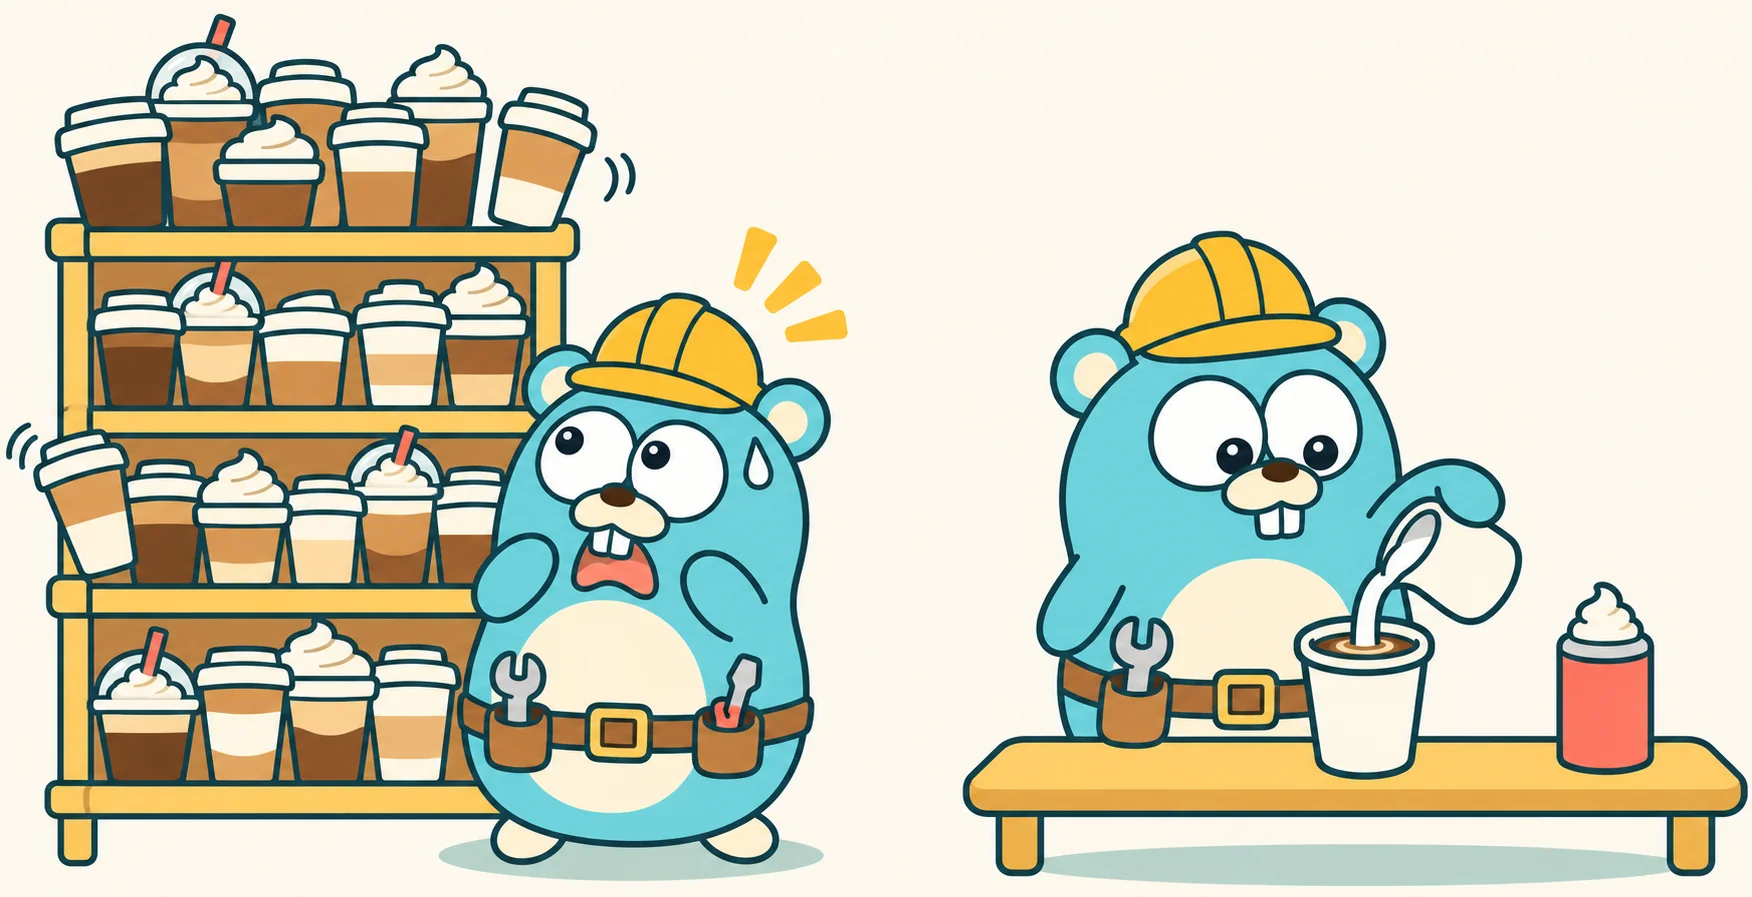
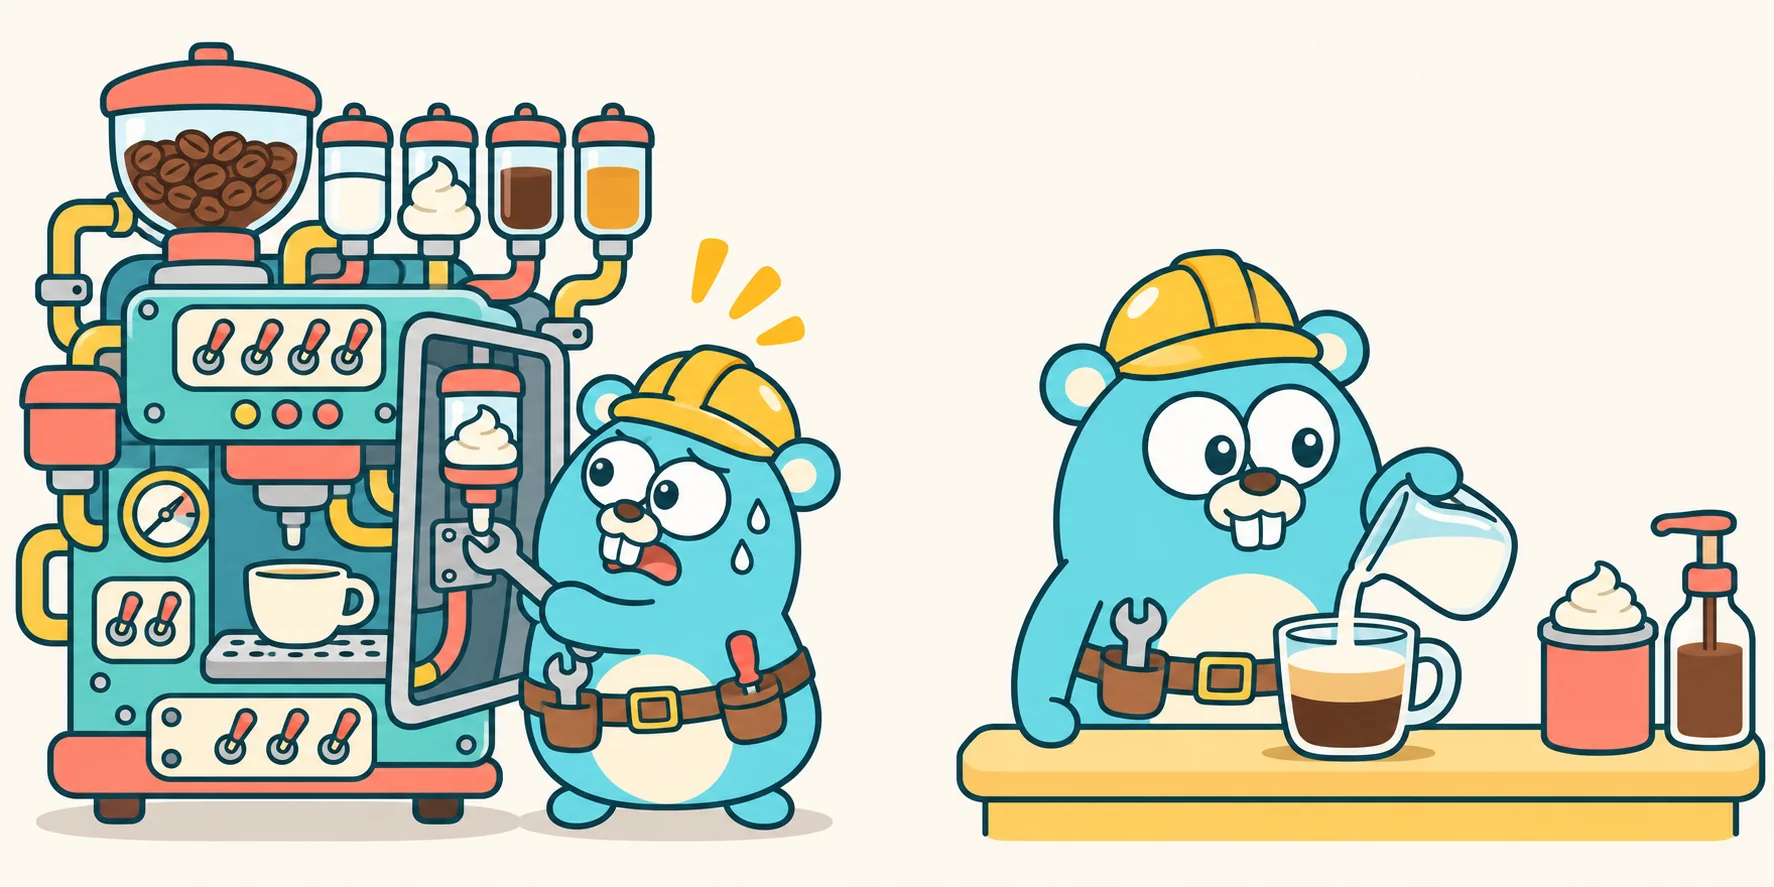
docs: 桥接、装饰器等章节改用更真实的反例，补充「Go 里就是…」的直白说明

diff --git a/codes/structural/bridge/bad.go b/codes/structural/bridge/bad.go
@@ -3,19 +3,31 @@ package bridge
 import "fmt"
 
 // --8<-- [start:bad]
-// 反例：每种「消息 × 渠道」的组合写一个类型。
-type normalSMS struct{}
-type normalEmail struct{}
-type urgentSMS struct{}
-type urgentEmail struct{}
+// 反例：渠道是个字符串，每种消息里都 switch 一遍「怎么发」。
+type badNormal struct{ channel string }
 
-func (normalSMS) Notify(msg string)   { fmt.Println("短信：" + msg) }
-func (normalEmail) Notify(msg string) { fmt.Println("邮件：" + msg) }
-func (urgentSMS) Notify(msg string)   { fmt.Println("短信：" + urgentText(msg)) }
-func (urgentEmail) Notify(msg string) { fmt.Println("邮件：" + urgentText(msg)) }
+func (n badNormal) Notify(msg string) {
+	switch n.channel {
+	case "sms":
+		fmt.Println("短信：" + msg)
+	case "email":
+		fmt.Println("邮件：" + msg)
+	}
+}
 
-// 加一个「微信」渠道：再写 normalWechat、urgentWechat；
-// 加一种「定时」消息：每个渠道再各写一个。M 种消息 × N 种渠道 = M×N 个类型。
+type badUrgent struct{ channel string }
+
+func (u badUrgent) Notify(msg string) {
+	text := urgentText(msg)
+	switch u.channel { // 和上面一模一样的 switch，又抄了一遍
+	case "sms":
+		fmt.Println("短信：" + text)
+	case "email":
+		fmt.Println("邮件：" + text)
+	}
+}
+
+// 加一个「微信」渠道：每种消息的 switch 都要加 case，漏改一处就发不出去。
 // --8<-- [end:bad]
 
 func urgentText(msg string) string { return "【紧急】" + msg + "，请立即处理" }

diff --git a/codes/structural/decorator/bad.go b/codes/structural/decorator/bad.go
@@ -1,22 +1,31 @@
 package decorator
 
 // --8<-- [start:bad]
-// 反例：用「组合出一个新类型」的方式扩展功能。
-// 2 种配料就要 3 个新类型，n 种配料最多要 2ⁿ-1 个，这就是「类爆炸」。
+// 反例：所有配料都做成订单上的开关，每个方法里挨个 if。
+type Order struct{ Milk, Cream bool }
 
-// CoffeeWithMilk 是加牛奶的美式。
-type CoffeeWithMilk struct{}
+func (o Order) Cost() int {
+	cost := 15
+	if o.Milk {
+		cost += 3
+	}
+	if o.Cream {
+		cost += 5
+	}
+	return cost
+}
 
-func (CoffeeWithMilk) Cost() int { return 15 + 3 }
+func (o Order) Description() string {
+	desc := "美式"
+	if o.Milk { // 和 Cost 里一样的 if，又写了一遍
+		desc += " + 牛奶"
+	}
+	if o.Cream {
+		desc += " + 奶油"
+	}
+	return desc
+}
 
-// CoffeeWithCream 是加奶油的美式。
-type CoffeeWithCream struct{}
-
-func (CoffeeWithCream) Cost() int { return 15 + 5 }
-
-// CoffeeWithMilkAndCream 是加牛奶和奶油的美式。
-type CoffeeWithMilkAndCream struct{}
-
-func (CoffeeWithMilkAndCream) Cost() int { return 15 + 3 + 5 }
-
+// 加一种「糖浆」：Order 加字段，Cost、Description 各加一个 if；
+// 想要「双份牛奶」：bool 表达不了，得改成计数。
 // --8<-- [end:bad]

diff --git a/codes/behavioral/visitor/bad.go b/codes/behavioral/visitor/bad.go
@@ -4,7 +4,7 @@ import "fmt"
 
 // --8<-- [start:bad]
 // 反例：每加一种展品，都要找到并更新各项操作里的类型分支。
-func badLabels(exhibits []any) []string {
+func badLabels(exhibits []Exhibit) []string {
 	var labels []string
 	for _, e := range exhibits {
 		switch x := e.(type) {
@@ -17,7 +17,7 @@ func badLabels(exhibits []any) []string {
 	return labels
 }
 
-func badPacking(exhibits []any) (flatBoxes, crates int) {
+func badPacking(exhibits []Exhibit) (flatBoxes, crates int) {
 	for _, e := range exhibits {
 		switch e.(type) {
 		case Painting:

diff --git a/codes/structural/decorator/decorator_test.go b/codes/structural/decorator/decorator_test.go
@@ -30,8 +30,9 @@ func TestBeverage(t *testing.T) {
 
 // 反例与装饰器结果一致。
 func TestBadMatches(t *testing.T) {
-	if (CoffeeWithMilkAndCream{}).Cost() != (Cream{Milk{Coffee{}}}).Cost() {
-		t.Fatal("反例与装饰器价格不一致")
+	bad, good := Order{Milk: true, Cream: true}, Cream{Milk{Coffee{}}}
+	if bad.Cost() != good.Cost() || bad.Description() != good.Description() {
+		t.Fatal("反例与装饰器结果不一致")
 	}
 }
 

diff --git a/codes/structural/bridge/bridge_test.go b/codes/structural/bridge/bridge_test.go
@@ -5,9 +5,9 @@ import (
 	"os"
 )
 
-// 反例输出相同，只是每种组合都要单独写一个类型。
+// 反例输出相同，只是每种消息里都要 switch 一遍渠道。
 func Example_bad() {
-	for _, n := range []Notice{normalSMS{}, normalEmail{}, urgentSMS{}, urgentEmail{}} {
+	for _, n := range []Notice{badNormal{"sms"}, badNormal{"email"}, badUrgent{"sms"}, badUrgent{"email"}} {
 		n.Notify("磁盘快满了")
 	}
 	// Output:

diff --git a/codes/behavioral/templatemethod/bad.go b/codes/behavioral/templatemethod/bad.go
@@ -14,7 +14,7 @@ func exportCSV(rows []Record) string {
 	var b strings.Builder
 	b.WriteString("name,score\n")
 	for _, r := range rows {
-		b.WriteString((CSV{}).Row(r) + "\n")
+		b.WriteString((CSV{}).Row(r) + "\n") // CSV.Row 负责转义逗号和引号，见 15.2
 	}
 	return b.String()
 }

diff --git a/docs/structural/decorator/problem.md b/docs/structural/decorator/problem.md
@@ -1,28 +1,26 @@
 # 7.1 问题与思路
 
-## 每种组合一个类型
+## 所有配料都塞进一个类型
 
 咖啡店卖美式，可以加牛奶、加奶油，顾客想怎么配就怎么配。
 
-![左：货架上摆满各种预先组合好的咖啡，吉祥物手忙脚乱；右：只有一杯美式和两种配料，吉祥物从容加料](../../assets/images/decorator-problem.webp){ .illus }
+![左：一台咖啡机装满了开关和管子，吉祥物满头大汗地打开侧板，还要再装一个出料口；右：一杯普通美式和几罐独立的配料，吉祥物从容地往杯里倒牛奶](../../assets/images/decorator-problem.webp){ .illus }
 
-<p class="caption">把每种组合都做成成品，货架很快放不下；只备一杯基础咖啡和几种配料，现点现加</p>
+<p class="caption">每种配料都焊进机器里，加一种就得拆一次机器；配料单独放，现点现往杯里加</p>
 
-最直觉的写法是每种组合写一个类型，相当于把每种组合都做成成品：
+最直觉的写法：订单上给每种配料一个开关，每个方法里挨个 `if`：
 
 ```go
 --8<-- "codes/structural/decorator/bad.go:bad"
 ```
 
-配料每多一种，组合数就翻一倍：
-
-| 配料种数 | 需要的组合类型 |
+| 痛点 | 后果 |
 |---|---|
-| 2 | 3 |
-| 3 | 7 |
-| n | 2ⁿ − 1 |
+| 加一种配料 | 改 `Order` 的字段，`Cost`、`Description` 各加一个 `if`，漏一处结果就错 |
+| 加两份牛奶 | `bool` 表达不了，结构得改 |
+| 别的包想加配料 | 改不了 `Order`，只能等它的作者改 |
 
-这叫**类爆炸**。更麻烦的是，牛奶涨价要改所有带牛奶的类型。本例只列到 2 种配料；3 种就是 7 个类型，4 种是 15 个。只有两三种固定组合、以后也不增减时，直接写这些类型反而更简单。
+根本原因：**每种附加功能都写进了同一个类型里**。配料只是几个价格、以后也不加时，这样写完全没问题；附加的东西一多、或者每层是一段行为（日志、鉴权、计时），就该拆开。
 
 ## 一层层包装
 
@@ -31,7 +29,9 @@
 1. 咖啡和配料实现**同一个接口** `Beverage`。
 2. 配料内部持有一个 `Beverage`，计算时先问里面那层，再加上自己的部分。
 
-==包装后仍是同一个接口，所以可以一层套一层，组合随用随拼==。n 种配料只需要 n 个类型。
+==包装后仍是同一个接口，所以可以一层套一层，组合随用随拼==。加一种配料只写一个新类型，已有代码一行不改。
+
+Go 里装饰器就是**一个结构体持有同一个接口**，或者一个函数 `func(http.Handler) http.Handler`（[7.3](middleware.md)）。名字里的「装饰」只是说它在原物外面加一层。
 
 ```mermaid
 classDiagram

diff --git a/docs/structural/bridge/problem.md b/docs/structural/bridge/problem.md
@@ -1,14 +1,14 @@
 # 11.1 问题与思路
 
-## 两件事在变，类型成倍增长
+## 两件事写在一起，改一处动全身
 
 监控系统要发告警：消息分普通和紧急两种，渠道有短信和邮件两种，以后还会加微信、加定时消息。
 
 ![左：一个塞满的格子柜，每格是一封信绑在一种送信工具上，吉祥物满头大汗还在往里塞；右：一摞信和一排送信工具分开放，吉祥物从容地把一封信交给信鸽](../../assets/images/bridge-problem.webp){ .illus }
 
-<p class="caption">每种组合绑成一份，柜子越塞越满；信和送信工具分开放，随取随配</p>
+<p class="caption">信和送信工具绑在一起，每加一样都要全部重来；分开放，随取随配</p>
 
-最直觉的写法：每种「消息 × 渠道」写一个类型：
+最直觉的写法：渠道用一个字符串表示，每种消息里 `switch` 一下：
 
 ```go
 --8<-- "codes/structural/bridge/bad.go:bad"
@@ -16,10 +16,10 @@
 
 | 痛点 | 后果 |
 |---|---|
-| 两个维度相乘 | 3 种消息 × 4 种渠道 = 12 个类型，大部分代码重复 |
-| 两件事绑在一起 | 改紧急消息的格式，要改每个渠道的那份 |
+| 加一个渠道 | 每种消息的 `switch` 都要加 `case`，漏改一处就发不出去 |
+| 发送代码重复 | 真实的短信、邮件发送有几十行，每种消息里各抄一份 |
 
-根本原因：**两个独立变化的维度被写进了同一个类型**，任何一边变化都要牵动所有组合。
+根本原因：**「怎么发」被写进了每一种「发什么」里**，两件事本来各自在变，却绑在了一起。
 
 ## 拆成两边，用字段接起来
 
@@ -59,3 +59,9 @@ classDiagram
 | 扩展抽象（Refined Abstraction） | 抽象的不同变体 | `Normal`、`Urgent` |
 | 实现（Implementor） | 底层操作的接口 | `Sender` |
 | 具体实现（Concrete Implementor） | 底层操作的不同做法 | `SMS`、`Email` |
+
+## 桥就是一个接口字段
+
+代码上，桥接没有任何新东西：**结构体里放一个接口字段**，你在 Go 里天天这么写。它真正的内容是一个判断：==发现两件事各自在变，就拆开写，用一个字段接起来==。
+
+名字来自 1994 年的 C++/Java。那时习惯用继承给每种组合写一个子类（`UrgentSMS`、`UrgentEmail`……），两边一扩展就是 M×N 个类；把两棵继承树用一个字段连起来，像在两岸之间架了一座桥。Go 没有继承，这种写法本来就是默认选择，记住「拆开 + 接口字段」即可。

diff --git a/docs/compare.md b/docs/compare.md
@@ -20,7 +20,7 @@
 | [策略](behavioral/strategy/index.md) | **整个**算法 | 使用方从外部选 | 同一件事有多种算法，按配置选 |
 | [状态](behavioral/state/index.md) | 当前阶段的行为 | 对象处理事件后**自己**切换 | 「现在能做什么、做完去哪」随阶段变化 |
 | [模板方法](behavioral/template-method/index.md) | 固定流程中的**某几步** | 写代码时定好 | 几个流程顺序相同，只有个别步骤不同 |
-| [桥接](structural/bridge/index.md) | 底层实现（如发送渠道） | 组装时传入 | 两个维度**都**有多个变体，避免 M×N 个类型 |
+| [桥接](structural/bridge/index.md) | 底层实现（如发送渠道） | 组装时传入 | 两个维度**都**有多个变体，避免每处都写 `switch` |
 | [命令](behavioral/command/index.md) | 不替换，而是把「一件待执行的事」存起来 | 调用方决定何时执行 | 要排队、延后执行、记录或撤销 |
 
 判断方法：先问「换的是整套还是几步」——整套是策略，几步是模板方法；再问「谁来换」——外部选是策略，自己变是状态；持有接口的一边也有多个变体时是桥接。

diff --git a/docs/structural/bridge/index.md b/docs/structural/bridge/index.md
@@ -10,15 +10,15 @@
 
 !!! abstract ""
 
-    发通知时有两件事在变：**发什么**（普通、紧急）和**怎么发**（短信、邮件）。把每种组合都写一遍，类型数会成倍增长。
+    发通知时有两件事在变：**发什么**（普通、紧急）和**怎么发**（短信、邮件）。把渠道判断写进每种消息里，加一个渠道就要改所有消息。
 
-    桥接模式把两件事拆成两边，各自扩展，再用一个字段把它们**接起来**：M 种加 N 种，而不是 M 乘 N 种。
+    桥接模式把两件事拆成两边，各自扩展，再用一个接口字段把它们**接起来**。
 
 ## 本章内容
 
 | 节 | 内容 |
 |---|---|
-| [11.1 问题与思路](problem.md) | 组合爆炸是怎么来的，拆成两边怎么解决 |
+| [11.1 问题与思路](problem.md) | 两件事写在一起的麻烦，拆开后桥到底是什么 |
 | [11.2 Go 实现](implementation.md) | 实现一边、抽象一边、用字段接起来 |
 | [11.3 Go 里的桥接](stdlib.md) | slog 的 Logger 与 Handler、标准库中的例子、什么时候用 |
 | [11.4 小结](summary.md) | 重点回顾、常见问题与动手试试 |

diff --git a/docs/creational/factory-method/problem.md b/docs/creational/factory-method/problem.md
@@ -54,3 +54,13 @@ classDiagram
 | 使用产品的流程 | `SignUpWith` |
 | 提供创建方式的函数 | `NewNotifier` 或 `Create` |
 | 产品接口与具体产品 | `Notifier`、`EmailNotifier`、`SMSNotifier` 等 |
+
+说白了，Go 里从简到繁有三档：
+
+| 写法 | 什么时候用 |
+|---|---|
+| 调用方直接传一个造好的 `Notifier` 进来 | 只用一次、提前就能造好，最简单 |
+| 一个 `NewNotifier(kind)` 函数集中创建（简单工厂） | 多处都要按名字创建，规则固定 |
+| 把创建函数传进去（工厂方法） | 由流程决定**何时、创建几个**，如 `hmac.New(sha256.New, key)`：hmac 内部要自己新建哈希 |
+
+「工厂方法」原指让子类重写一个创建方法；Go 没有子类，就是**一个创建函数当参数**。

diff --git a/docs/patterns.md b/docs/patterns.md
@@ -18,7 +18,7 @@
 | 访问一个对象前先做权限检查、缓存或延迟创建 | [代理](structural/proxy/index.md) |
 | 给一堆复杂子系统一个简单入口 | [外观](structural/facade/index.md) |
 | 文件夹和文件、部门和员工这样的树，统一处理 | [组合](structural/composite/index.md) |
-| 两个维度都会变，不想写出 M×N 个类型 | [桥接](structural/bridge/index.md) |
+| 发什么、怎么发都会变，不想每种消息里都 `switch` 渠道 | [桥接](structural/bridge/index.md) |
 | 大量相似对象太占内存 | [享元](structural/flyweight/index.md) |
 | 同一件事有多种算法，按条件切换 | [策略](behavioral/strategy/index.md) |
 | 一处变化，自动通知多个关心它的地方 | [观察者](behavioral/observer/index.md) |
